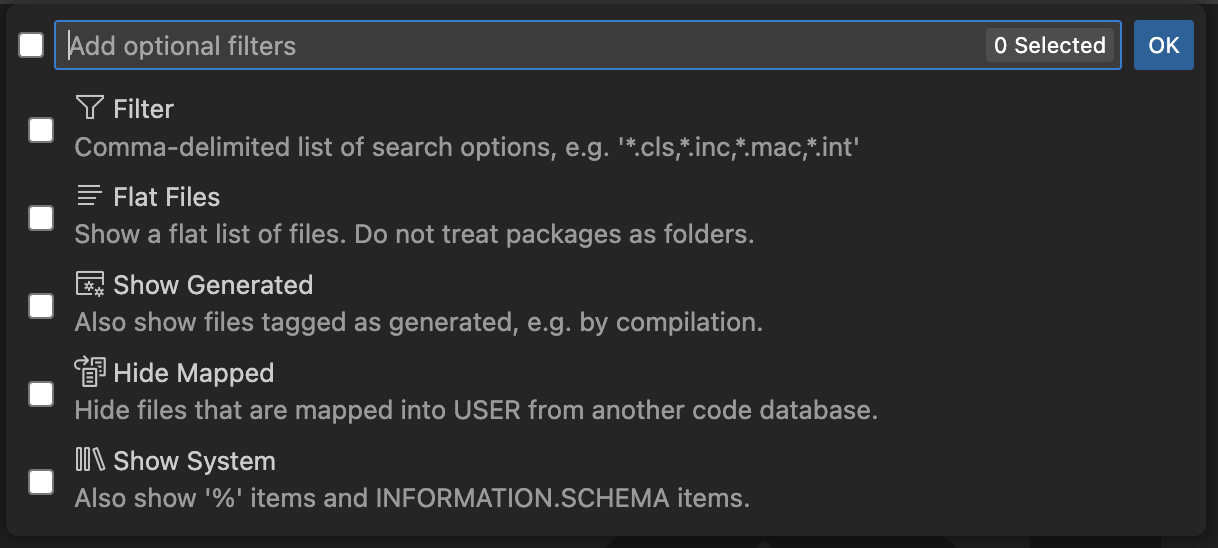
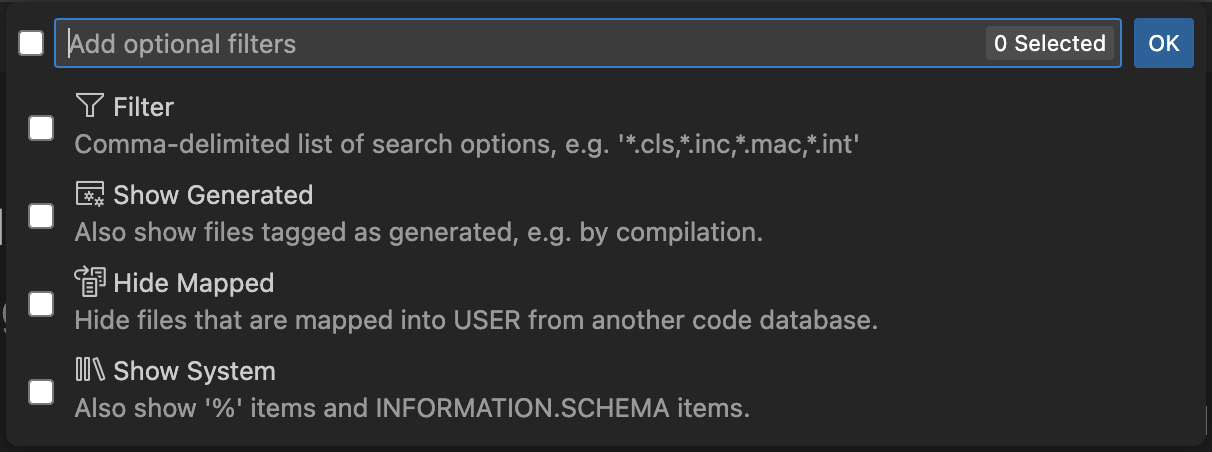
Deprecate `flat` and `type` isfs query parameters (#1165)

Changed region(s): [[0.0, 0.3717, 0.7327, 0.9292], [0.0, 0.031, 1.0, 0.3717]]

diff --git a/src/utils/FileProviderUtil.ts b/src/utils/FileProviderUtil.ts
@@ -96,17 +96,10 @@ export async function projectContentsFromUri(uri: vscode.Uri, overrideFlat?: boo
   return api.actionQuery(query, parameters).then((data) => data.result.content);
 }
 
-export function fileSpecFromURI(uri: vscode.Uri, overrideType?: string): string {
+export function fileSpecFromURI(uri: vscode.Uri): string {
   const params = new URLSearchParams(uri.query);
   const csp = params.has("csp") && ["", "1"].includes(params.get("csp"));
-  const type =
-    overrideType && overrideType != ""
-      ? overrideType
-      : params.has("type") && params.get("type").length
-      ? params.get("type")
-      : csp
-      ? "csp"
-      : "all";
+  const type = params.has("type") && params.get("type").length ? params.get("type") : csp ? "csp" : "all";
 
   const folder = !csp
     ? uri.path.replace(/\//g, ".")
@@ -141,7 +134,7 @@ export function fileSpecFromURI(uri: vscode.Uri, overrideType?: string): string 
 
 export function studioOpenDialogFromURI(
   uri: vscode.Uri,
-  overrides: { flat?: boolean; filter?: string; type?: string } = { flat: false, filter: "", type: "" }
+  overrides: { flat?: boolean; filter?: string } = { flat: false, filter: "" }
 ): Promise<any> {
   const api = new AtelierAPI(uri);
   if (!api.active) {
@@ -150,7 +143,7 @@ export function studioOpenDialogFromURI(
   const sql = `SELECT Name, Type FROM %Library.RoutineMgr_StudioOpenDialog(?,?,?,?,?,?,?,?,?,?)`;
   const params = new URLSearchParams(uri.query);
   const csp = params.has("csp") && ["", "1"].includes(params.get("csp"));
-  const spec = fileSpecFromURI(uri, overrides.type);
+  const spec = fileSpecFromURI(uri);
   const notStudio = "0";
   const dir = "1";
   const orderBy = "1";

diff --git a/src/commands/addServerNamespaceToWorkspace.ts b/src/commands/addServerNamespaceToWorkspace.ts
@@ -285,12 +285,6 @@ async function modifyWsFolderUri(uri: vscode.Uri): Promise<vscode.Uri | undefine
         value: "filter",
       },
       {
-        label: "$(list-flat) Flat Files",
-        detail: "Show a flat list of files. Do not treat packages as folders.",
-        picked: params.has("flat"),
-        value: "flat",
-      },
-      {
         label: "$(server-process) Show Generated",
         detail: "Also show files tagged as generated, e.g. by compilation.",
         picked: params.has("generated"),
@@ -328,6 +322,7 @@ async function modifyWsFolderUri(uri: vscode.Uri): Promise<vscode.Uri | undefine
     params.delete("generated");
     params.delete("mapped");
     params.delete("system");
+    params.delete("type");
     for (const otherParam of otherParams) {
       switch (otherParam.value) {
         case "filter": {
@@ -345,7 +340,6 @@ async function modifyWsFolderUri(uri: vscode.Uri): Promise<vscode.Uri | undefine
           }
           break;
         }
-        case "flat":
         case "generated":
         case "system":
           params.set(otherParam.value, "1");

diff --git a/src/extension.ts b/src/extension.ts
@@ -1333,6 +1333,25 @@ export async function activate(context: vscode.ExtensionContext): Promise<any> {
   );
   reporter && reporter.sendTelemetryEvent("extensionActivated");
 
+  // Report the use of deprecated query parameters
+  (vscode.workspace.workspaceFolders || []).forEach(async (wf) => {
+    if (filesystemSchemas.includes(wf.uri.scheme)) {
+      const params = new URLSearchParams(wf.uri.query);
+      if (params.has("flat") || params.has("type")) {
+        const qp = params.has("flat") ? "flat" : "type";
+        await vscode.window
+          .showWarningMessage(
+            `Workspace folder '${wf.name}' is using deprecated query parameter '${qp}'. Modify it now?`,
+            "Yes",
+            "No"
+          )
+          .then(
+            (answer) => answer == "Yes" && vscode.commands.executeCommand("vscode-objectscript.modifyWsFolder", wf.uri)
+          );
+      }
+    }
+  });
+
   // The API we export
   const extensionApi = {
     serverForUri(uri: vscode.Uri): any {

diff --git a/docs/ServerSide.md b/docs/ServerSide.md
@@ -36,13 +36,13 @@ Next create a workspace for editing code directly on the server:
    ![Choose files.](../assets/images/ss-files.png "choose files")
   - If you chose to show web application files, pick an optional web application to show files from:
 
-   ![Choose files.](../assets/images/ss-pick-webapp.png "choose files")
+   ![Choose web app.](../assets/images/ss-pick-webapp.png "choose web app")
   - If you chose to show a project's contents, pick the project:
 
-   ![Choose files.](../assets/images/ss-pick-project.png "choose files")
+   ![Choose project.](../assets/images/ss-pick-project.png "choose project")
   - If you create your own filter, pick the filter options:
 
-   ![Choose query parameters.](../assets/images/ss-query-params.png "choose query parameters")
+   ![Choose filter options.](../assets/images/ss-query-params.png "choose filter options")
 1. If you want to reopen this workspace in the future, use the command **File > Save Workspace As...** to save it as a `.code-workspace` file.
 
 Note that the ObjectScript Explorer view is not visible in the ObjectScript view container. Because the files listed in the Explorer view are all on the server, the ObjectScript Explorer is not needed for this configuration.
@@ -147,15 +147,12 @@ Changes you make to files opened from this root folder of your VS Code workspace
 
 The query string of the `uri` property accepts several parameters that control filtering and display of the server-side entities. The examples below access the USER namespace on the server whose definition is named 'myserver'.
 
-- `isfs://myserver:user/?type=cls`, shows only classes
-- `isfs://myserver:user/?type=rtn`, shows only mac, int and inc files
 - `isfs://myserver:user/?generated=1`, shows generated files as well as not generated
-- `isfs://myserver:user/?filter=%Z*.mac,%z*.mac`, comma-delimited list of search options, ignores `type`. The default is `*.cls,*.inc,*.mac,*.int`. To see all files, use `*`.
-- `isfs://myserver:user/?flat=1`, a flat list of files. Does not split packages as folders. Cannot be combined with `csp`.
+- `isfs://myserver:user/?filter=%Z*.mac,%z*.mac`, comma-delimited list of search options. The default is `*.cls,*.inc,*.mac,*.int`. To see all files, use `*`.
 - `isfs://myserver:user/?project=prjname`, shows only files in project `prjname`. Cannot be combined with any other parameter.
 - `isfs://myserver:user/?mapped=0`, hides files that are mapped from a non-default database
 
-The options `flat`, `generated` and `mapped` can be combined with each other, and with `type` or `filter`. If `filter` is specified, `type` is ignored.
+The options `generated` and `mapped` can be combined with each other, and with `filter`.
 
 To modify the query parameters or name of an existing workspace folder, run the `Modify Server-Side Workspace Folder...` command from the command palette or the file explorer context menu.
 
